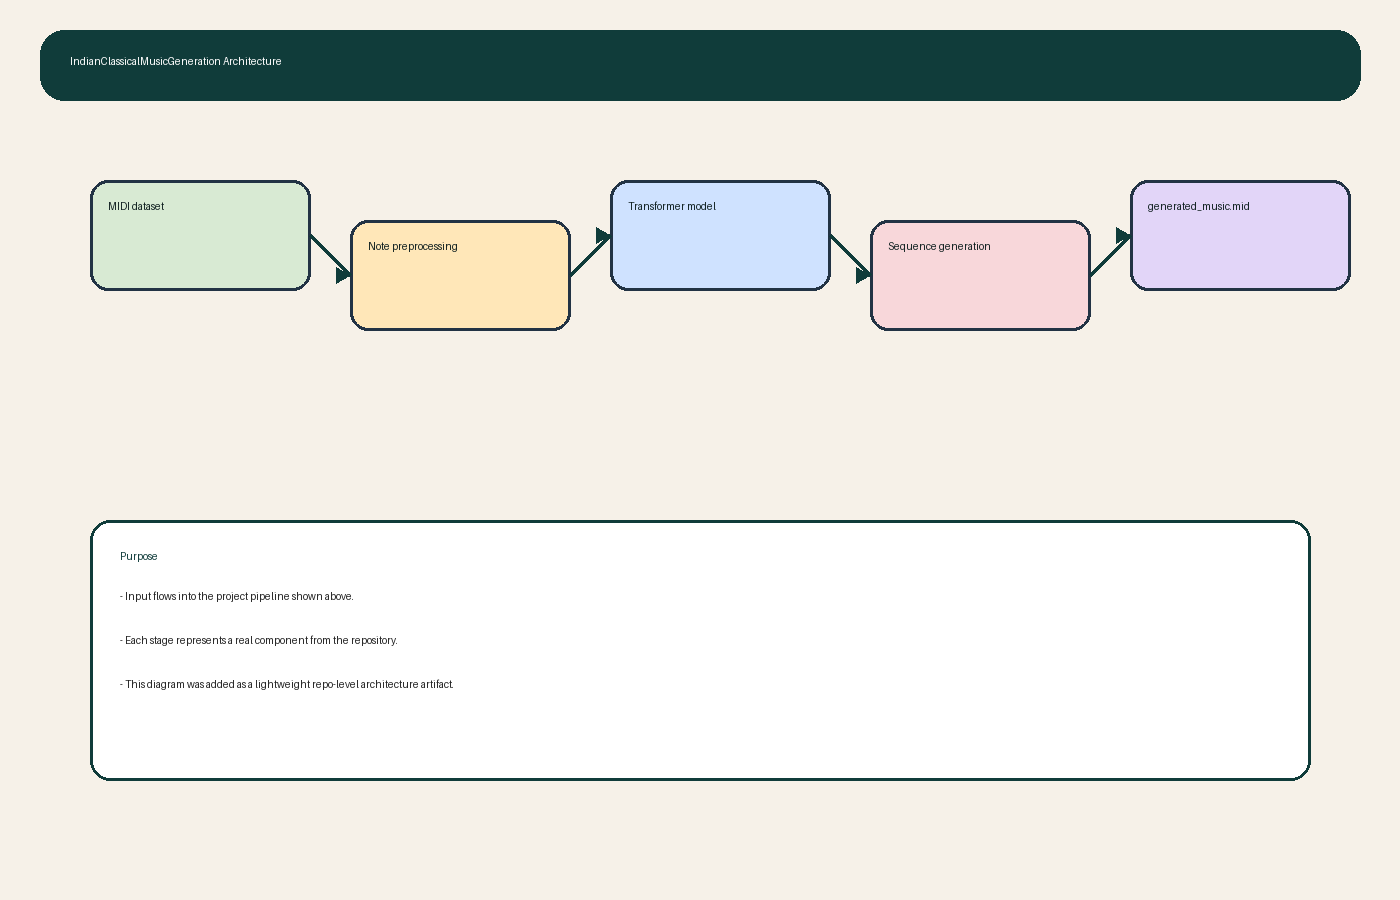
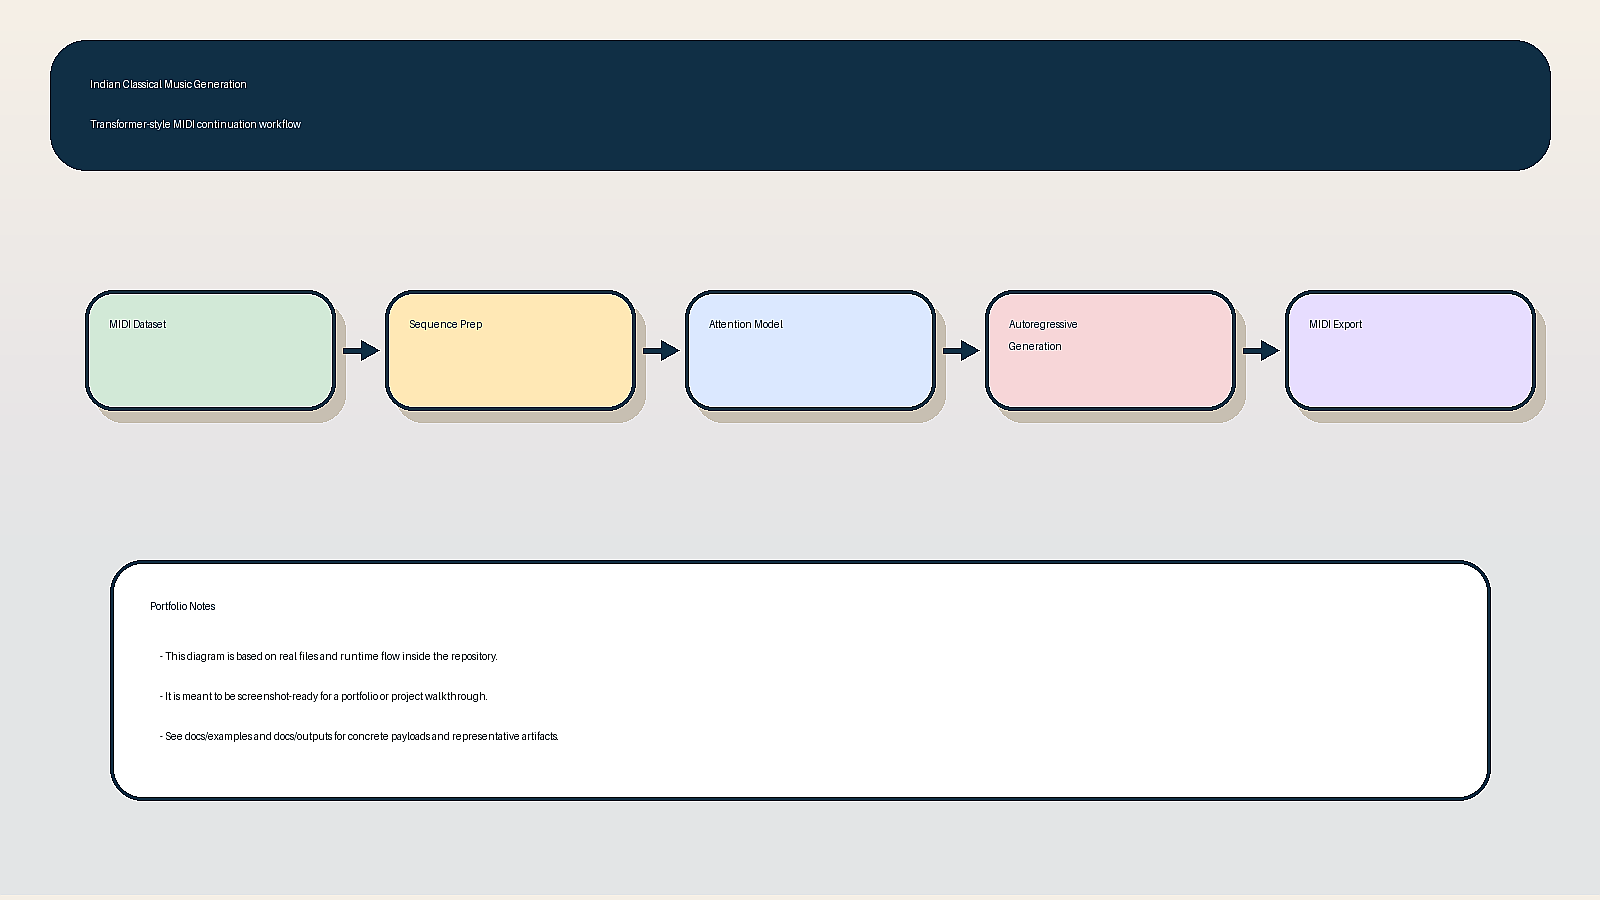
Polish architecture docs and add rich examples

Changed region(s): [[0.0307, 0.0311, 0.9829, 0.4978], [0.0614, 0.56, 0.9521, 0.9022]]

diff --git a/docs/sample_io.md b/docs/sample_io.md
@@ -1,19 +1,13 @@
 # Sample Inputs and Outputs
 
-## Sample input
-- A folder of `.mid` or `.midi` files under the configured dataset path
-- UI selections such as:
-  - Raga: `Yaman`
-  - Tala: `Teental`
-  - Instrument: `Sitar`
+## Example files
+- `examples/generation_config.json`
+- `examples/sample_generated_sequence.txt`
+- `outputs/training_log.txt`
+- root-level `generated_music.mid`
 
-## Sample output
-- Generated symbolic note continuation
-- Downloadable file: `generated_music.mid`
-
-## Sample interaction
-```text
-User selects raga, tala, and instrument
-User clicks Generate Music
-App writes generated_music.mid and exposes a download button
-```
+## What these show
+- a representative generation configuration
+- an example symbolic note sequence produced by the model
+- a training/export style log
+- an actual MIDI artifact already present in the repository

diff --git a/README.md b/README.md
@@ -75,3 +75,5 @@ flowchart LR
 - [Architecture diagram](docs/architecture.png)
 - [Evaluation logs and outputs](docs/evaluation.md)
 - [Sample inputs and outputs](docs/sample_io.md)
+- [Rich example assets](docs/examples/)
+- [Representative outputs](docs/outputs/)
